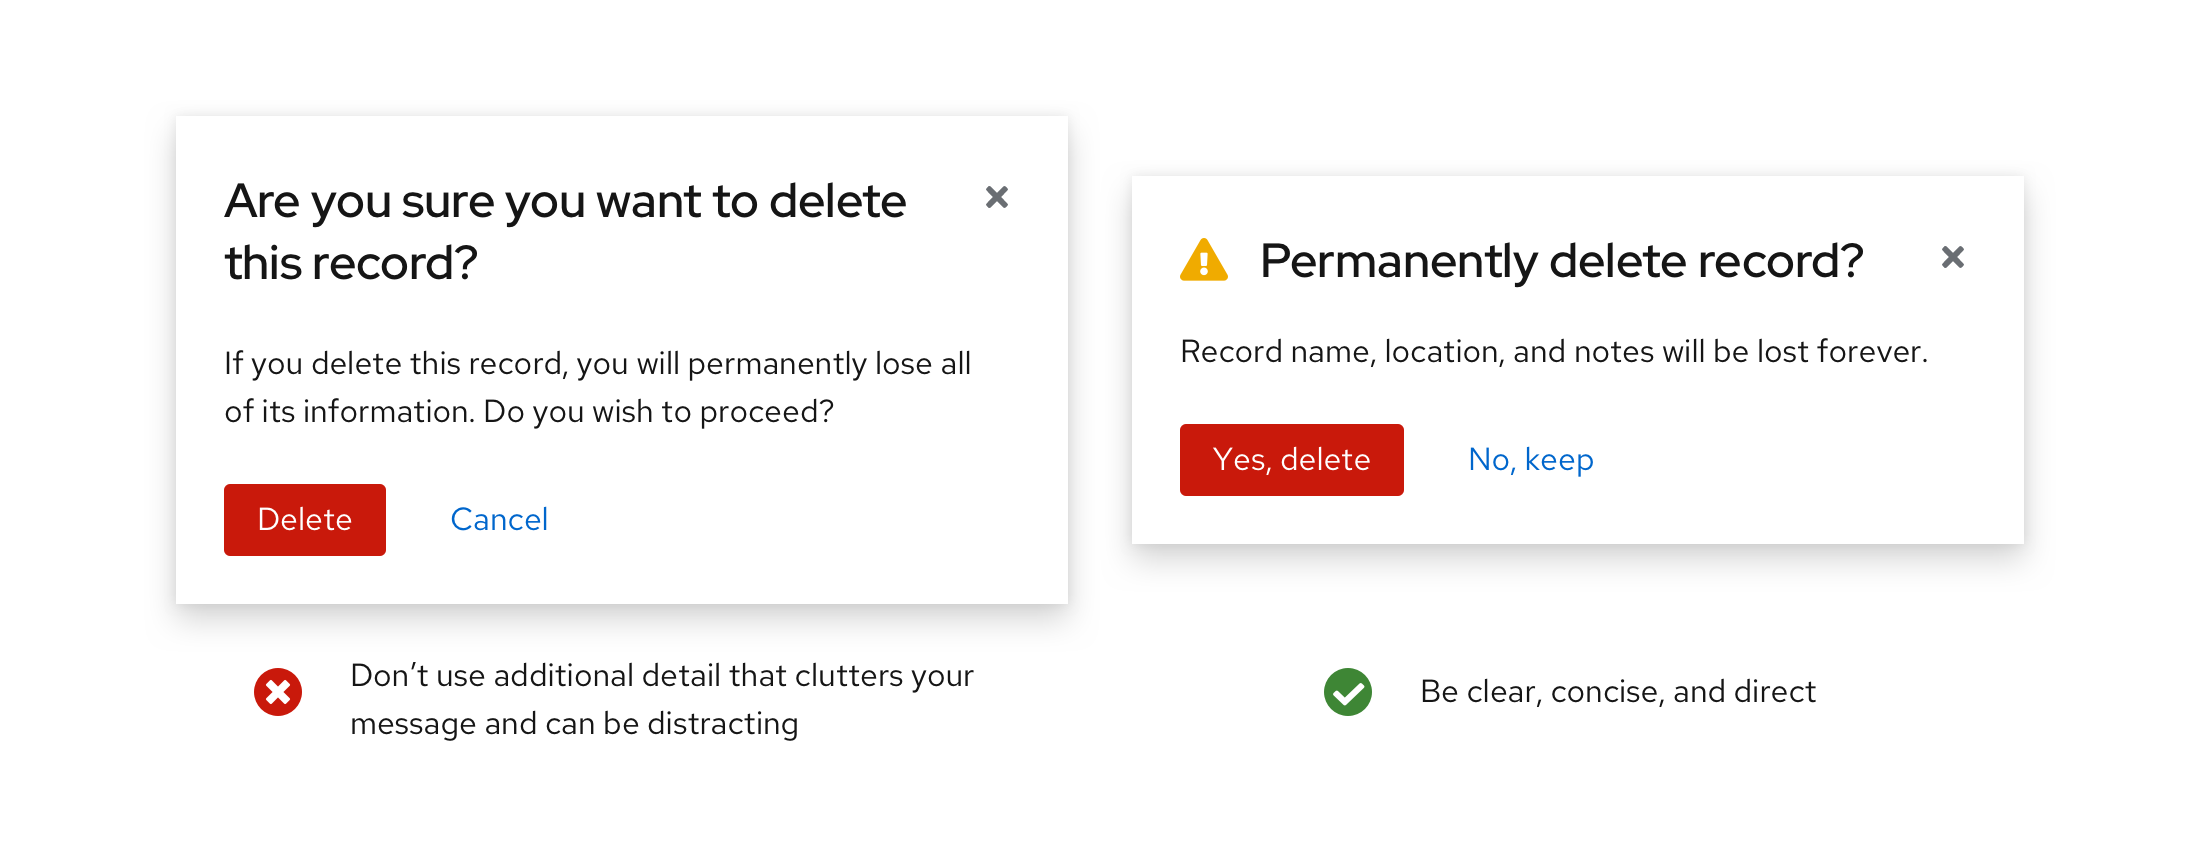
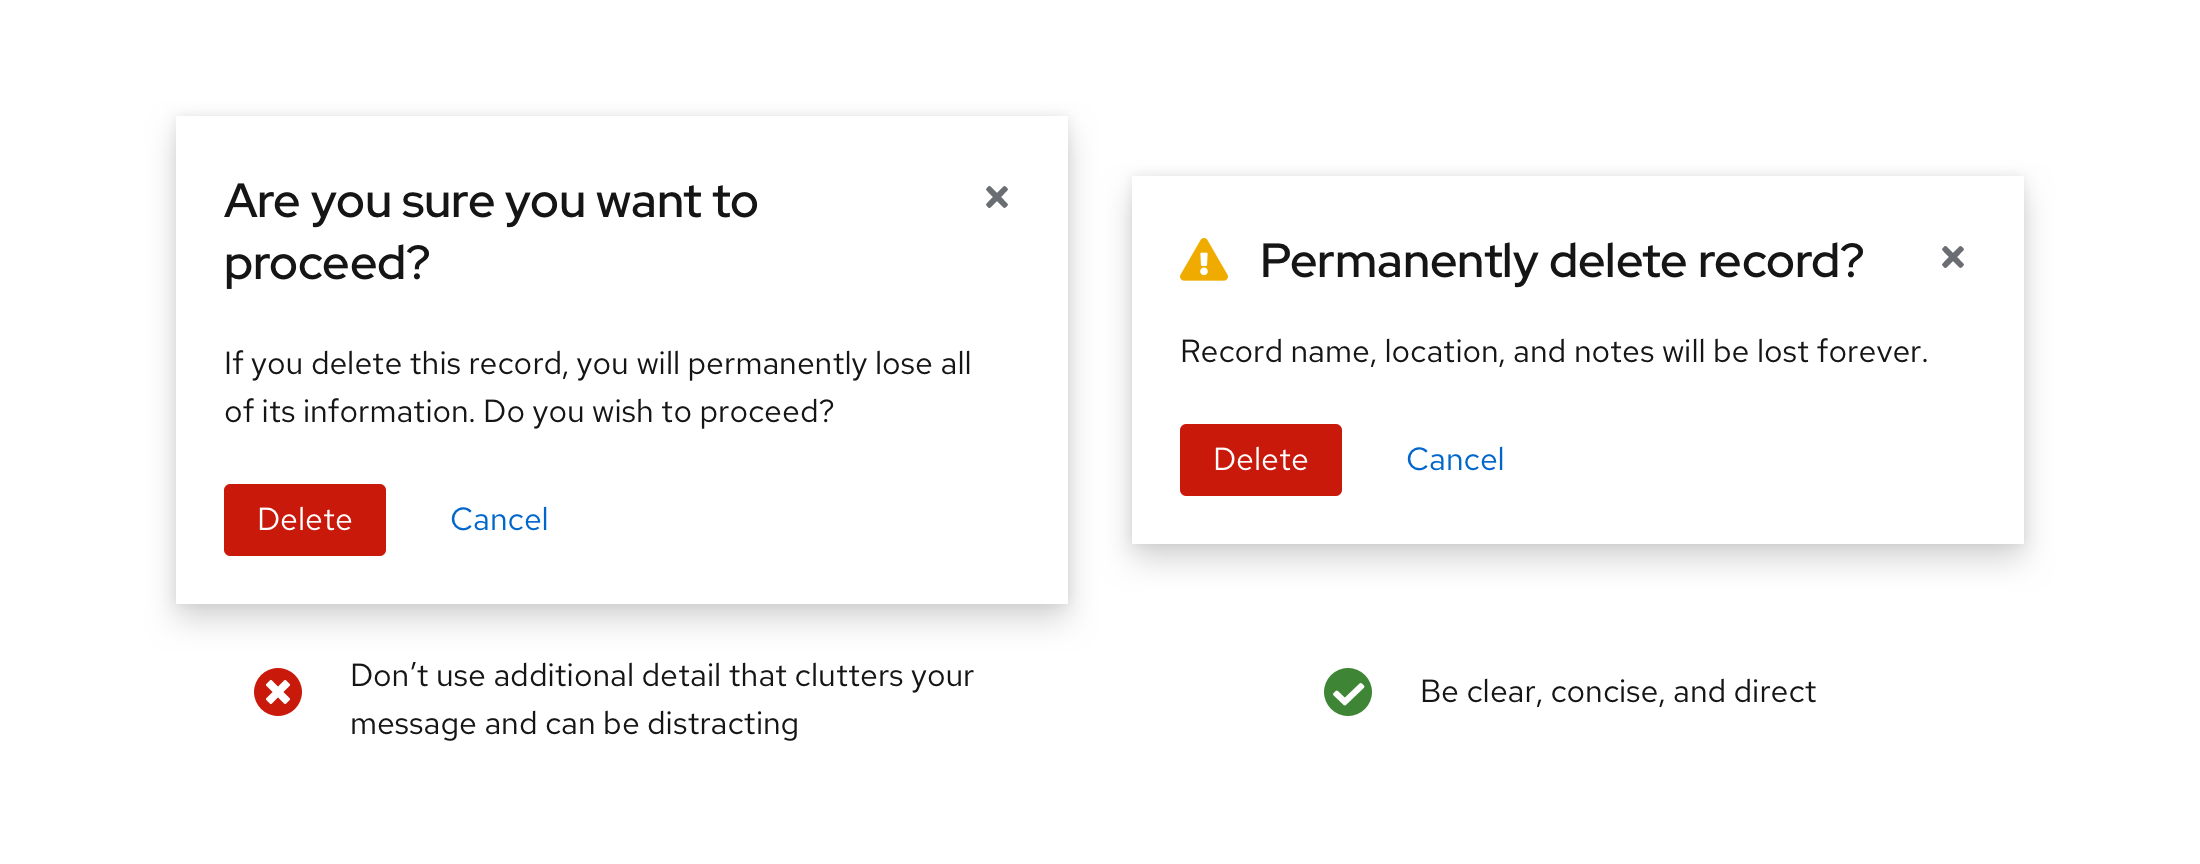
updated according to comments

Changed region(s): [[0.5564, 0.4688, 0.7109, 0.5938], [0.0927, 0.2812, 0.2164, 0.3438], [0.34, 0.2188, 0.4327, 0.25]]

diff --git a/packages/v4/src/content/design-guidelines/usage-and-behavior/modal/modal.md b/packages/v4/src/content/design-guidelines/usage-and-behavior/modal/modal.md
@@ -26,14 +26,14 @@ The compact modal dialog uses a spacing of 24px. Use this for smaller modals tha
 #### Large
 <img src="./img/large.png" alt="Large" width="756"/>
 
-The compact modal dialog uses a spacing of 32px. Use this for larger modals that contain a lot of content (code previews, forms, tables...).
+The large modal dialog uses a spacing of 32px. Use this for larger modals that contain a lot of content (code previews, forms, tables...).
 
 ## Usage
 ### When to use
 Use a modal dialog when information is critical and requires user input or attention.
 Use modals to:
 
-* [Validate user decisions](#get-confirmation)
+* [Validate user decisions](#validate-user-decisions)
 * [Report errors](#report-errors)
 * [Provide the result of a task or state of an application](#provide-the-result-of-a-task-or-state-of-an-application)
 * [Get required user input](#get-required-user-input)
@@ -42,7 +42,7 @@ Use modals to:
 Modal dialogs interrupt user task flow and should be avoided for any information that is not critical to user success.
 
 ### Types of modals
-#### Get confirmation
+#### Validate user decisions
 Use a confirmation dialog to validate user decisions and communicate consequences. Confirmation dialogs need to clearly restate the action the user is trying to take and explicitly outline the consequences of that action. They should be clear, concise, and direct. Give the user the important information first—additional detail like “Are you sure?” clutters your message and can be distracting.
 
 Depending on your design template, follow this format for confirmation dialogs:
